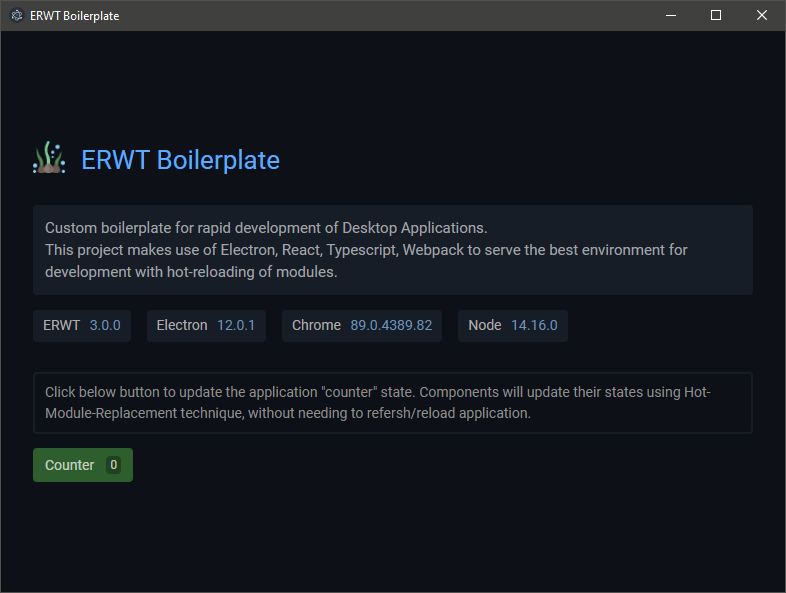
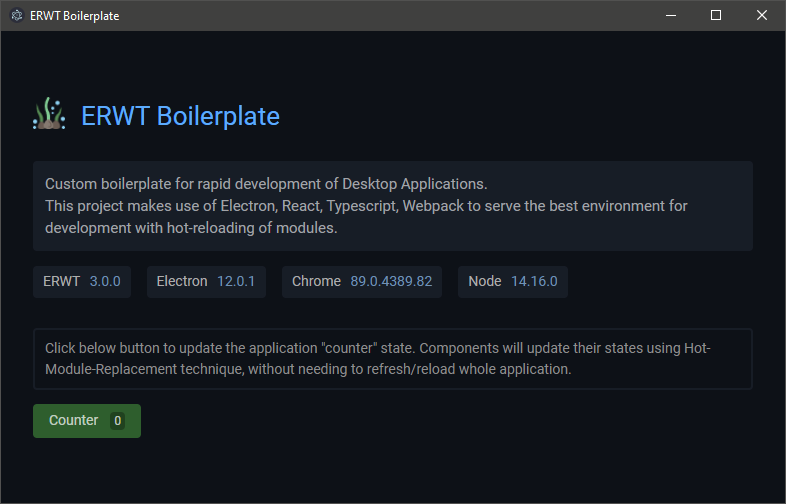
Update screenshot with mistake fixes

diff --git a/src/components/Application.tsx b/src/components/Application.tsx
@@ -42,8 +42,8 @@ const Application: React.FC<Props> = (props) => {
         <p className='main-teaser small'>
           Click below button to update the application &quot;counter&quot;
           state. Components will update their states using
-          Hot-Module-Replacement technique, without needing to refersh/reload
-          application.
+          Hot-Module-Replacement technique, without needing to refresh/reload
+          whole application.
         </p>
         <button onClick={() => setCounter(counter + 1)}>
           Counter <span>{counter}</span>

diff --git a/src/components/Application.less b/src/components/Application.less
@@ -54,7 +54,7 @@ main {
 button {
   background-color: #2d5e2b;
   border: 0;
-  padding: 8px 12px;
+  padding: 8px 16px;
   border-radius: 4px;
   color: rgba(255, 255, 255, 0.7);
   font-size: 14px;
